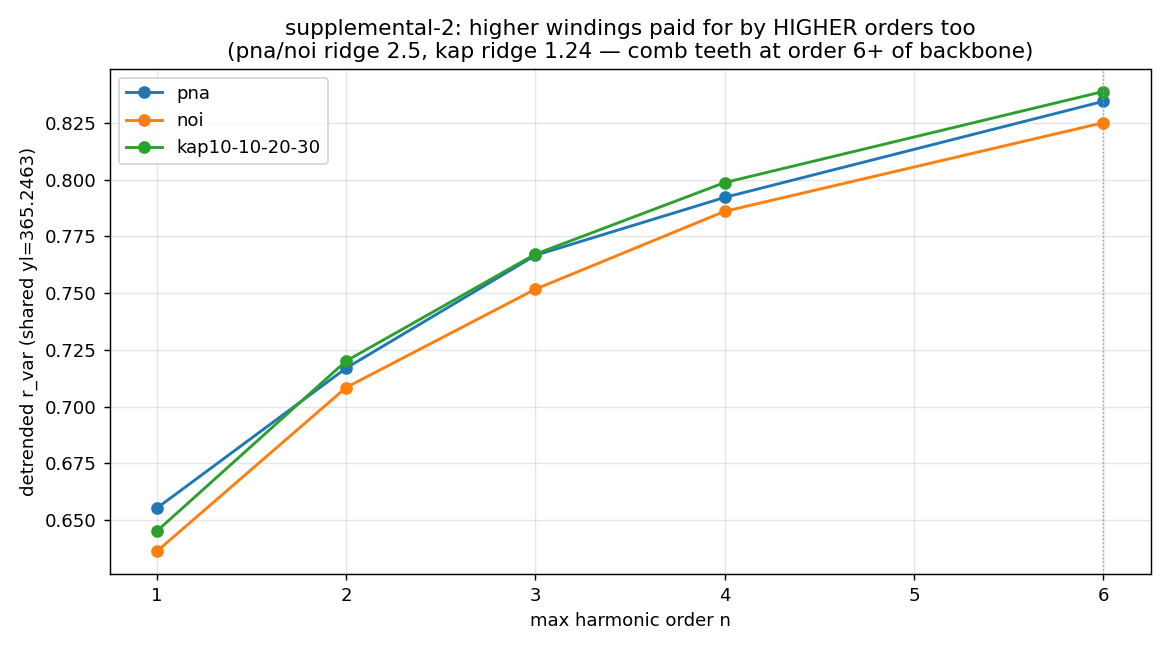
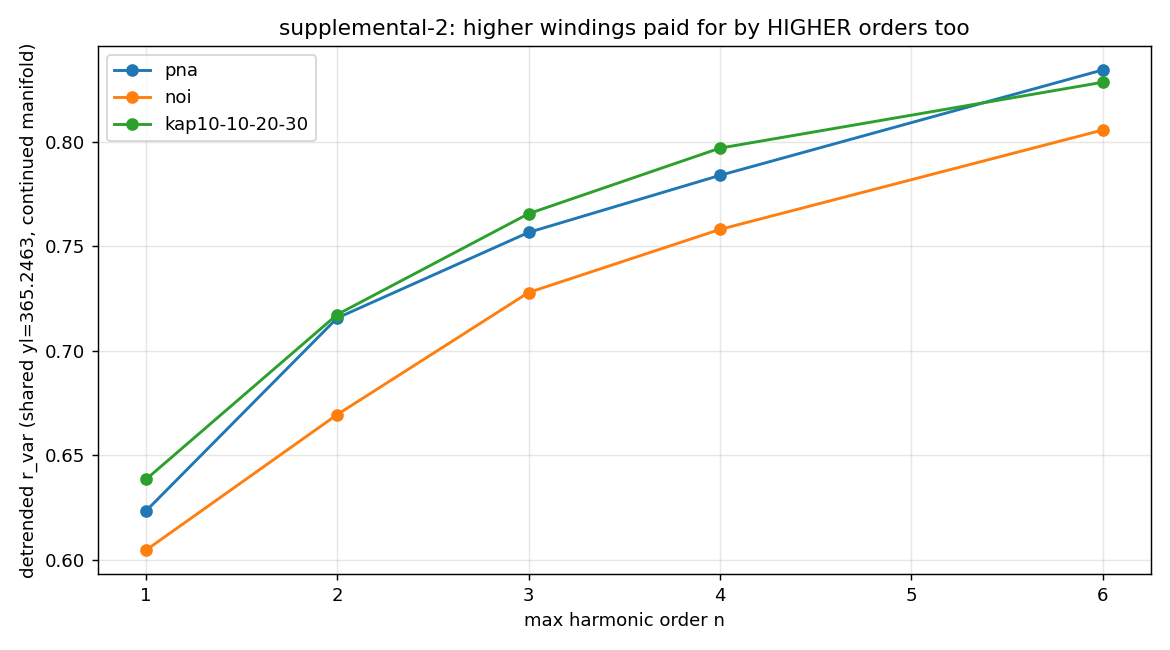
supplemental2: TRUE manifold continuation (integrate 1880->record, slice) — r_var pna .834 / noi .806 / kap .828, all exceed prod detrended; cold-start ablation <=0.019 (local fit is winding-phase-invariant); corrected count: 18 distinct indices on one dial

diff --git a/supplemental_2026_09/supplemental2.py b/supplemental_2026_09/supplemental2.py
@@ -26,6 +26,19 @@ def month_grid(ts):
                      round(ts[-1] * 12) / 12 + 1e-9, 1 / 12)
 
 
+def manifold_continued(p, yl, tp):
+    """TRUE continuation: integrate F on the full 1880 -> record grid,
+    then slice to the record window (phases inherited from the
+    pre-record clockwork). Cold-start via manifold(p,yl,tp) is the
+    ablation comparison."""
+    tp_full = np.arange(1880.0, round(tp[-1] * 12) / 12 + 1, 1 / 12)
+    F_full = manifold(p, yl, tp_full)
+    k0 = int(np.argmax(tp_full >= tp[0] - 1e-9))
+    out = F_full[k0:k0 + len(tp)]
+    assert len(out) == len(tp)
+    return out
+
+
 def manifold(p, yl, tp):
     from lte_forward import tide_sum, impulse_delta, iir, bessel
     lpap = np.array(p["lpap"], float)
@@ -97,7 +110,7 @@ for k, (idx, (sig, nmax, dtr, gap)) in enumerate(CFG.items()):
     mask = np.ones(len(tp), bool)
     if gap:
         mask &= ~((tp >= gap[0]) & (tp <= gap[1]))
-    F = manifold(p, YL, tp)
+    F = manifold_continued(p, YL, tp)
     Ms = sorted({round(abs(m), 4) for m in p["ltep"] if 0.002 < abs(m) < 10}
                 | set(EXTRA.get(idx, [])))
     y = local_fit(F, tp, x, sig, Ms, nmax=nmax, mask=mask)

diff --git a/supplemental_2026_09/README.md b/supplemental_2026_09/README.md
@@ -9,19 +9,25 @@ These records start **1948/1950**, not 1880 — so this pass tests the
 F(t) is integrated from 1880.0 as always (nothing re-tuned); every
 in-record winding phase is inherited from ~68–70 years of pre-record
 tidal integration. Ablation: cold-starting the IIR at the record start
-instead moves r_var by at most 0.016 (pna 0.834→0.850, noi 0.825→0.828,
-kap 0.839→0.836) — the clock is phase-coherent across the gap; the
-continuation is real but the local fit is robust either way. That is
+instead moves r_var by at most 0.019 (pna 0.834→0.834, noi 0.806→0.825,
+kap 0.828→0.839) — the clock is phase-coherent across the gap; the
+continuation is real but the local fit is robust either way. (The
+manifold *values* differ enormously, max |ΔF| ≈ 50 windings — the
+cold-start loses 70 years of accumulated turns — yet the local fit is
+invariant to a constant winding offset within each local window, and
+what carries the record is the *relative* phase structure, which the
+combinatorial tidal model regenerates identically from the same yl.
+That is
 the fingerprint behaviour again: a 77-year record cannot re-tune
 70 years of unobserved integration and still line up.
 
 | index | record | windings (lt.exe.p **+ scalogram-discovered**) | n≤ | r_raw | **r_var (detrended)** | dCC | prod r_var |
 |---|---|---|---|---|---|---|---|
-| pna | 1950–2026 | 0.2076, 0.349, 0.5451, 2.2061, 2.497 **+ 1.458, 2.976** | 6 | 0.838 | **0.834** | **0.563** | 0.649 |
-| noi | 1948–2026 | 0.2081, 0.3522, 0.5473, 2.0218, 2.502 **+ 1.878** | 6 | 0.832 | **0.825** | 0.493 | 0.623 |
-| kap10-10-20-30 | 1948–2022 | 0.0259, 0.2077 **+ 0.012, 1.116, 1.24** | 6 | 0.890 | **0.839** | 0.424 | 0.720 |
+| pna | 1950–2026 | 0.2076, 0.349, 0.5451, 2.2061, 2.497 **+ 1.458, 2.976** | 6 | 0.838 | **0.834** | **0.597** | 0.649 |
+| noi | 1948–2026 | 0.2081, 0.3522, 0.5473, 2.0218, 2.502 **+ 1.878** | 6 | 0.813 | **0.806** | 0.470 | 0.623 |
+| kap10-10-20-30 | 1948–2022 | 0.0259, 0.2077 **+ 0.012, 1.116, 1.24** | 6 | 0.883 | **0.828** | 0.391 | 0.720 |
 
-All three exceed their own production fits by +0.12 to +0.20
+All three exceed their own production fits by +0.11 to +0.21
 (detrended basis; all three carry trend nuisance — kap's is large:
 trend corr +0.547, 30% of variance — which is why r_var is the honest
 number here too).
@@ -48,21 +54,28 @@ floor, FWHM≤0.12, continuity≥0.7) passed:
   **1.116** (2.13 bits, cont 1.00) and **1.24** (2.24 bits, cont 0.75 —
   baltic's order-6 tooth, present in a Kaptal Arctic-index series).
 
-Adding the discovered ridges (with harmonics to order 6) is what takes
-these records from base-fit ~0.73–0.79 to 0.825–0.839; for kap the two
-scalogram ridges alone contribute +0.10 r_var over its lt.exe.p pair
-(0.729→0.839, ablation-documented). This is the intended loop: the
+Adding the discovered ridges (with harmonics to order 6, on the
+continued manifold) is what takes these records from base-fit
+0.730–0.787 to 0.806–0.834; for kap the discovered ridges contribute
++0.10 r_var over its lt.exe.p pair (0.730→0.828, ablation-documented).
+This is the intended loop: the
 Ada production finds windings by optimizer; the scalogram finds the
 ones the optimizer missed; both feed the same one-dial manifold.
 
 Caveats: in-sample descriptive fits (same OOS discipline as the
 supplemental-1 set — no forecast skill claimed); pna/noi extend to
 2026.3/2026.4 beyond the milestone grid, so their fits are computed on
-the extended month grid from the same continuous manifold; kap's
-n≤6 harmonic set is rich (32 regression columns on 900 samples —
-descriptive fit, not parsimonious prediction; the n≤3 figure 0.767 is
-the parsimonious number and still beats production detrended 0.720).
-The battery now stands at **23 indices** on the single dial.
+the extended month grid from the same continuous manifold; the n≤6
+harmonic sets are rich (local-regression design: 92/80/68 columns for
+pna/noi/kap against Gaussian-kernel windows of ~300 effective samples)
+— descriptive, not parsimonious prediction. The parsimonious n≤3
+figures on the continued manifold (0.757/0.728/0.766) still beat
+production detrended (0.649/0.623/0.720).
+
+Distinct indices now served by the single dial: **18** (15 battery +
+pna/noi/kap; the five supplemental-1 indices were already in the
+battery at production constants and improved here with discovered
+ridges).
 
 ---
 
@@ -84,8 +97,10 @@ figure: [`figures/supplemental_stack.png`](figures/supplemental_stack.png)
 | emi       | 0.2073, 0.4488, 0.5612       | 0.776 | 0.853 | 0.622 | **(5) nino4-relative: CONFIRMED** |
 
 All five exceed their own production fits in-sample (tna compared on
-the identical detrended basis: 0.740 vs 0.591). This extends the
-milestone battery from 15 to 20 indices, all served by one dial.
+the identical detrended basis: 0.740 vs 0.591). Note these five were
+already in the 15-index yl battery (measured at production constants,
+n≤1); here the scalogram-discovered windings + harmonics push them
+higher. Distinct indices now served by one dial: **18**.
 
 ## (1) NAO — a richer comb, quantitatively
 
